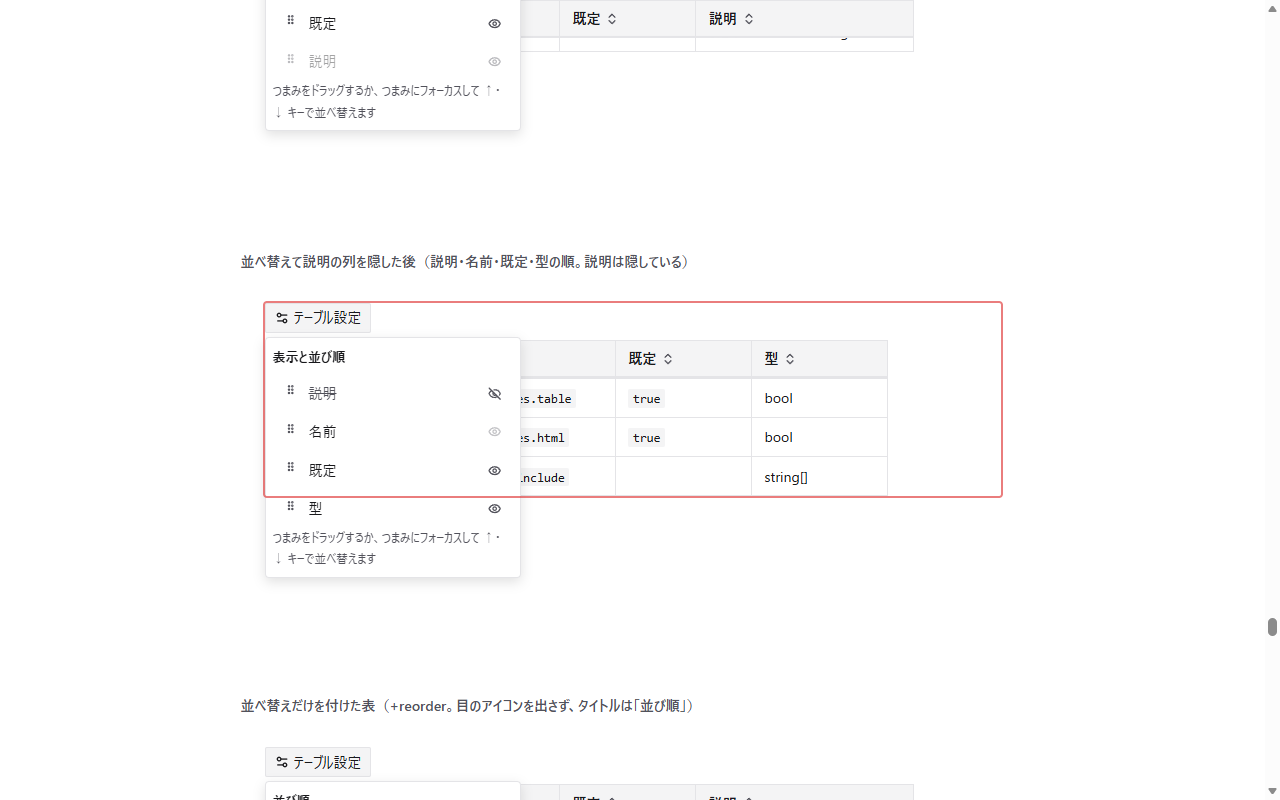
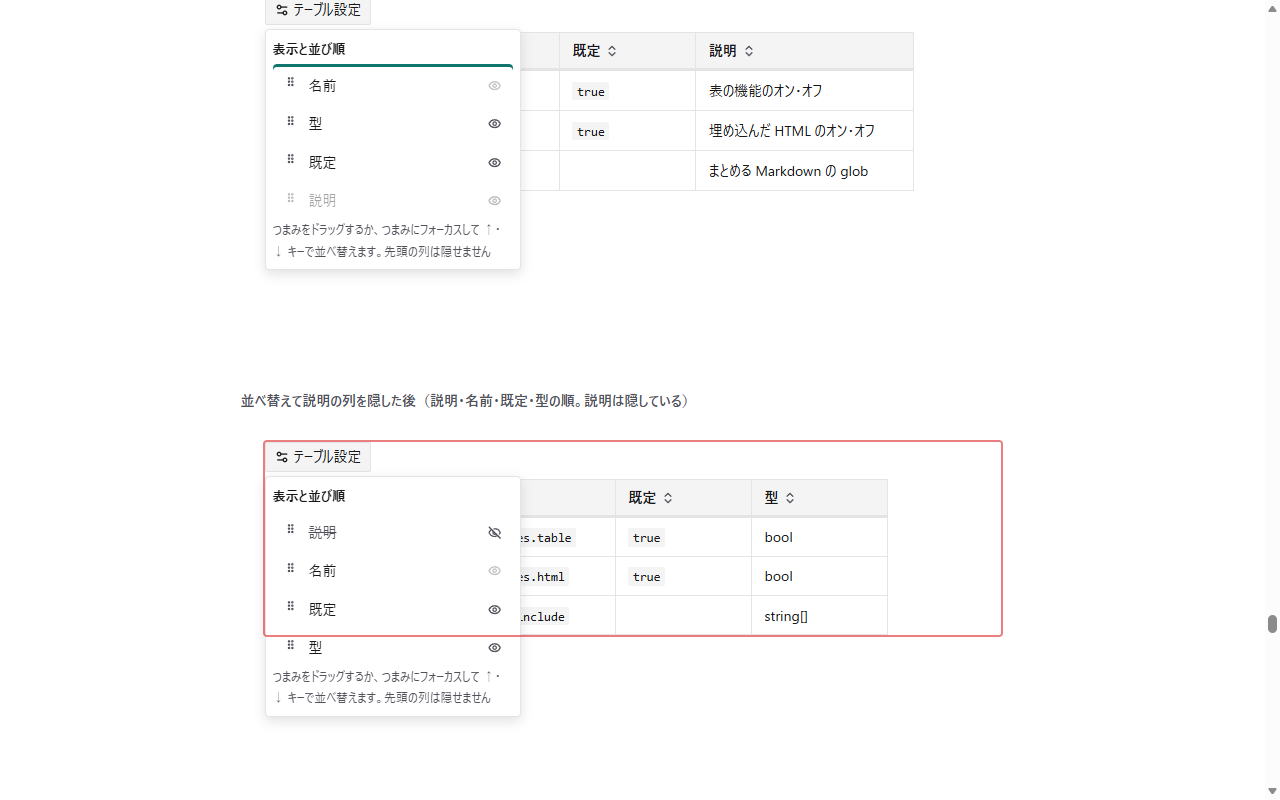
mock: テーブル設定の一覧に先頭の列を隠せない理由を出し、シナリオの先頭の列を記載した順の先頭にする (#303)

diff --git a/dev/mock/components/table/index.html b/dev/mock/components/table/index.html
@@ -1279,7 +1279,7 @@
   <div class="mdmark-table-settings" id="ts-a" role="dialog" aria-label="テーブル設定" hidden>
     <p class="mdmark-table-settings-title">表示と並び順</p>
     <ul class="mdmark-table-settings-list"><li class="mdmark-table-settings-item" data-column="0" data-name="名前"><button class="mdmark-table-settings-grip" type="button" aria-label="「名前」の列を並べ替える" aria-describedby="ts-a-note"><svg class="mdmark-icon" viewBox="0 0 24 24" aria-hidden="true"><circle cx="9" cy="6" r="1"/><circle cx="15" cy="6" r="1"/><circle cx="9" cy="12" r="1"/><circle cx="15" cy="12" r="1"/><circle cx="9" cy="18" r="1"/><circle cx="15" cy="18" r="1"/></svg></button><span class="mdmark-table-settings-name">名前</span><button class="mdmark-table-settings-eye" type="button" aria-pressed="false" aria-label="「名前」を隠す" disabled><svg class="mdmark-icon" viewBox="0 0 24 24" aria-hidden="true"><path d="M2.062 12.348a1 1 0 0 1 0-.696 10.75 10.75 0 0 1 19.876 0 1 1 0 0 1 0 .696 10.75 10.75 0 0 1-19.876 0"/><circle cx="12" cy="12" r="3"/></svg></button></li><li class="mdmark-table-settings-item" data-column="1" data-name="型"><button class="mdmark-table-settings-grip" type="button" aria-label="「型」の列を並べ替える" aria-describedby="ts-a-note"><svg class="mdmark-icon" viewBox="0 0 24 24" aria-hidden="true"><circle cx="9" cy="6" r="1"/><circle cx="15" cy="6" r="1"/><circle cx="9" cy="12" r="1"/><circle cx="15" cy="12" r="1"/><circle cx="9" cy="18" r="1"/><circle cx="15" cy="18" r="1"/></svg></button><span class="mdmark-table-settings-name">型</span><button class="mdmark-table-settings-eye" type="button" aria-pressed="false" aria-label="「型」を隠す"><svg class="mdmark-icon" viewBox="0 0 24 24" aria-hidden="true"><path d="M2.062 12.348a1 1 0 0 1 0-.696 10.75 10.75 0 0 1 19.876 0 1 1 0 0 1 0 .696 10.75 10.75 0 0 1-19.876 0"/><circle cx="12" cy="12" r="3"/></svg></button></li><li class="mdmark-table-settings-item" data-column="2" data-name="既定"><button class="mdmark-table-settings-grip" type="button" aria-label="「既定」の列を並べ替える" aria-describedby="ts-a-note"><svg class="mdmark-icon" viewBox="0 0 24 24" aria-hidden="true"><circle cx="9" cy="6" r="1"/><circle cx="15" cy="6" r="1"/><circle cx="9" cy="12" r="1"/><circle cx="15" cy="12" r="1"/><circle cx="9" cy="18" r="1"/><circle cx="15" cy="18" r="1"/></svg></button><span class="mdmark-table-settings-name">既定</span><button class="mdmark-table-settings-eye" type="button" aria-pressed="false" aria-label="「既定」を隠す"><svg class="mdmark-icon" viewBox="0 0 24 24" aria-hidden="true"><path d="M2.062 12.348a1 1 0 0 1 0-.696 10.75 10.75 0 0 1 19.876 0 1 1 0 0 1 0 .696 10.75 10.75 0 0 1-19.876 0"/><circle cx="12" cy="12" r="3"/></svg></button></li><li class="mdmark-table-settings-item" data-column="3" data-name="説明"><button class="mdmark-table-settings-grip" type="button" aria-label="「説明」の列を並べ替える" aria-describedby="ts-a-note"><svg class="mdmark-icon" viewBox="0 0 24 24" aria-hidden="true"><circle cx="9" cy="6" r="1"/><circle cx="15" cy="6" r="1"/><circle cx="9" cy="12" r="1"/><circle cx="15" cy="12" r="1"/><circle cx="9" cy="18" r="1"/><circle cx="15" cy="18" r="1"/></svg></button><span class="mdmark-table-settings-name">説明</span><button class="mdmark-table-settings-eye" type="button" aria-pressed="false" aria-label="「説明」を隠す"><svg class="mdmark-icon" viewBox="0 0 24 24" aria-hidden="true"><path d="M2.062 12.348a1 1 0 0 1 0-.696 10.75 10.75 0 0 1 19.876 0 1 1 0 0 1 0 .696 10.75 10.75 0 0 1-19.876 0"/><circle cx="12" cy="12" r="3"/></svg></button></li></ul>
-    <p class="mdmark-table-settings-note" id="ts-a-note">つまみをドラッグするか、つまみにフォーカスして ↑・↓ キーで並べ替えます</p>
+    <p class="mdmark-table-settings-note" id="ts-a-note">つまみをドラッグするか、つまみにフォーカスして ↑・↓ キーで並べ替えます。先頭の列は隠せません</p>
   </div>
   </div>
   <table tabindex="0" aria-label="表: テーブル設定を閉じた表">
@@ -1306,7 +1306,7 @@
   <div class="mdmark-table-settings" id="ts-b" role="dialog" aria-label="テーブル設定">
     <p class="mdmark-table-settings-title">表示と並び順</p>
     <ul class="mdmark-table-settings-list"><li class="mdmark-table-settings-item" data-column="0" data-name="名前"><button class="mdmark-table-settings-grip" type="button" aria-label="「名前」の列を並べ替える" aria-describedby="ts-b-note"><svg class="mdmark-icon" viewBox="0 0 24 24" aria-hidden="true"><circle cx="9" cy="6" r="1"/><circle cx="15" cy="6" r="1"/><circle cx="9" cy="12" r="1"/><circle cx="15" cy="12" r="1"/><circle cx="9" cy="18" r="1"/><circle cx="15" cy="18" r="1"/></svg></button><span class="mdmark-table-settings-name">名前</span><button class="mdmark-table-settings-eye" type="button" aria-pressed="false" aria-label="「名前」を隠す" disabled><svg class="mdmark-icon" viewBox="0 0 24 24" aria-hidden="true"><path d="M2.062 12.348a1 1 0 0 1 0-.696 10.75 10.75 0 0 1 19.876 0 1 1 0 0 1 0 .696 10.75 10.75 0 0 1-19.876 0"/><circle cx="12" cy="12" r="3"/></svg></button></li><li class="mdmark-table-settings-item" data-column="1" data-name="型"><button class="mdmark-table-settings-grip" type="button" aria-label="「型」の列を並べ替える" aria-describedby="ts-b-note"><svg class="mdmark-icon" viewBox="0 0 24 24" aria-hidden="true"><circle cx="9" cy="6" r="1"/><circle cx="15" cy="6" r="1"/><circle cx="9" cy="12" r="1"/><circle cx="15" cy="12" r="1"/><circle cx="9" cy="18" r="1"/><circle cx="15" cy="18" r="1"/></svg></button><span class="mdmark-table-settings-name">型</span><button class="mdmark-table-settings-eye" type="button" aria-pressed="false" aria-label="「型」を隠す"><svg class="mdmark-icon" viewBox="0 0 24 24" aria-hidden="true"><path d="M2.062 12.348a1 1 0 0 1 0-.696 10.75 10.75 0 0 1 19.876 0 1 1 0 0 1 0 .696 10.75 10.75 0 0 1-19.876 0"/><circle cx="12" cy="12" r="3"/></svg></button></li><li class="mdmark-table-settings-item" data-column="2" data-name="既定"><button class="mdmark-table-settings-grip" type="button" aria-label="「既定」の列を並べ替える" aria-describedby="ts-b-note"><svg class="mdmark-icon" viewBox="0 0 24 24" aria-hidden="true"><circle cx="9" cy="6" r="1"/><circle cx="15" cy="6" r="1"/><circle cx="9" cy="12" r="1"/><circle cx="15" cy="12" r="1"/><circle cx="9" cy="18" r="1"/><circle cx="15" cy="18" r="1"/></svg></button><span class="mdmark-table-settings-name">既定</span><button class="mdmark-table-settings-eye" type="button" aria-pressed="false" aria-label="「既定」を隠す"><svg class="mdmark-icon" viewBox="0 0 24 24" aria-hidden="true"><path d="M2.062 12.348a1 1 0 0 1 0-.696 10.75 10.75 0 0 1 19.876 0 1 1 0 0 1 0 .696 10.75 10.75 0 0 1-19.876 0"/><circle cx="12" cy="12" r="3"/></svg></button></li><li class="mdmark-table-settings-item" data-column="3" data-name="説明"><button class="mdmark-table-settings-grip" type="button" aria-label="「説明」の列を並べ替える" aria-describedby="ts-b-note"><svg class="mdmark-icon" viewBox="0 0 24 24" aria-hidden="true"><circle cx="9" cy="6" r="1"/><circle cx="15" cy="6" r="1"/><circle cx="9" cy="12" r="1"/><circle cx="15" cy="12" r="1"/><circle cx="9" cy="18" r="1"/><circle cx="15" cy="18" r="1"/></svg></button><span class="mdmark-table-settings-name">説明</span><button class="mdmark-table-settings-eye" type="button" aria-pressed="false" aria-label="「説明」を隠す"><svg class="mdmark-icon" viewBox="0 0 24 24" aria-hidden="true"><path d="M2.062 12.348a1 1 0 0 1 0-.696 10.75 10.75 0 0 1 19.876 0 1 1 0 0 1 0 .696 10.75 10.75 0 0 1-19.876 0"/><circle cx="12" cy="12" r="3"/></svg></button></li></ul>
-    <p class="mdmark-table-settings-note" id="ts-b-note">つまみをドラッグするか、つまみにフォーカスして ↑・↓ キーで並べ替えます</p>
+    <p class="mdmark-table-settings-note" id="ts-b-note">つまみをドラッグするか、つまみにフォーカスして ↑・↓ キーで並べ替えます。先頭の列は隠せません</p>
   </div>
   </div>
   <table tabindex="0" aria-label="表: テーブル設定を開いた表">
@@ -1335,7 +1335,7 @@
   <div class="mdmark-table-settings" id="ts-c" role="dialog" aria-label="テーブル設定">
     <p class="mdmark-table-settings-title">表示と並び順</p>
     <ul class="mdmark-table-settings-list"><li class="mdmark-table-settings-item is-drop-before" data-column="0" data-name="名前"><button class="mdmark-table-settings-grip" type="button" aria-label="「名前」の列を並べ替える" aria-describedby="ts-c-note"><svg class="mdmark-icon" viewBox="0 0 24 24" aria-hidden="true"><circle cx="9" cy="6" r="1"/><circle cx="15" cy="6" r="1"/><circle cx="9" cy="12" r="1"/><circle cx="15" cy="12" r="1"/><circle cx="9" cy="18" r="1"/><circle cx="15" cy="18" r="1"/></svg></button><span class="mdmark-table-settings-name">名前</span><button class="mdmark-table-settings-eye" type="button" aria-pressed="false" aria-label="「名前」を隠す" disabled><svg class="mdmark-icon" viewBox="0 0 24 24" aria-hidden="true"><path d="M2.062 12.348a1 1 0 0 1 0-.696 10.75 10.75 0 0 1 19.876 0 1 1 0 0 1 0 .696 10.75 10.75 0 0 1-19.876 0"/><circle cx="12" cy="12" r="3"/></svg></button></li><li class="mdmark-table-settings-item" data-column="1" data-name="型"><button class="mdmark-table-settings-grip" type="button" aria-label="「型」の列を並べ替える" aria-describedby="ts-c-note"><svg class="mdmark-icon" viewBox="0 0 24 24" aria-hidden="true"><circle cx="9" cy="6" r="1"/><circle cx="15" cy="6" r="1"/><circle cx="9" cy="12" r="1"/><circle cx="15" cy="12" r="1"/><circle cx="9" cy="18" r="1"/><circle cx="15" cy="18" r="1"/></svg></button><span class="mdmark-table-settings-name">型</span><button class="mdmark-table-settings-eye" type="button" aria-pressed="false" aria-label="「型」を隠す"><svg class="mdmark-icon" viewBox="0 0 24 24" aria-hidden="true"><path d="M2.062 12.348a1 1 0 0 1 0-.696 10.75 10.75 0 0 1 19.876 0 1 1 0 0 1 0 .696 10.75 10.75 0 0 1-19.876 0"/><circle cx="12" cy="12" r="3"/></svg></button></li><li class="mdmark-table-settings-item" data-column="2" data-name="既定"><button class="mdmark-table-settings-grip" type="button" aria-label="「既定」の列を並べ替える" aria-describedby="ts-c-note"><svg class="mdmark-icon" viewBox="0 0 24 24" aria-hidden="true"><circle cx="9" cy="6" r="1"/><circle cx="15" cy="6" r="1"/><circle cx="9" cy="12" r="1"/><circle cx="15" cy="12" r="1"/><circle cx="9" cy="18" r="1"/><circle cx="15" cy="18" r="1"/></svg></button><span class="mdmark-table-settings-name">既定</span><button class="mdmark-table-settings-eye" type="button" aria-pressed="false" aria-label="「既定」を隠す"><svg class="mdmark-icon" viewBox="0 0 24 24" aria-hidden="true"><path d="M2.062 12.348a1 1 0 0 1 0-.696 10.75 10.75 0 0 1 19.876 0 1 1 0 0 1 0 .696 10.75 10.75 0 0 1-19.876 0"/><circle cx="12" cy="12" r="3"/></svg></button></li><li class="mdmark-table-settings-item is-dragging" data-column="3" data-name="説明"><button class="mdmark-table-settings-grip" type="button" aria-label="「説明」の列を並べ替える" aria-describedby="ts-c-note"><svg class="mdmark-icon" viewBox="0 0 24 24" aria-hidden="true"><circle cx="9" cy="6" r="1"/><circle cx="15" cy="6" r="1"/><circle cx="9" cy="12" r="1"/><circle cx="15" cy="12" r="1"/><circle cx="9" cy="18" r="1"/><circle cx="15" cy="18" r="1"/></svg></button><span class="mdmark-table-settings-name">説明</span><button class="mdmark-table-settings-eye" type="button" aria-pressed="false" aria-label="「説明」を隠す"><svg class="mdmark-icon" viewBox="0 0 24 24" aria-hidden="true"><path d="M2.062 12.348a1 1 0 0 1 0-.696 10.75 10.75 0 0 1 19.876 0 1 1 0 0 1 0 .696 10.75 10.75 0 0 1-19.876 0"/><circle cx="12" cy="12" r="3"/></svg></button></li></ul>
-    <p class="mdmark-table-settings-note" id="ts-c-note">つまみをドラッグするか、つまみにフォーカスして ↑・↓ キーで並べ替えます</p>
+    <p class="mdmark-table-settings-note" id="ts-c-note">つまみをドラッグするか、つまみにフォーカスして ↑・↓ キーで並べ替えます。先頭の列は隠せません</p>
   </div>
   </div>
   <table tabindex="0" aria-label="表: 列の一覧をドラッグしている表">
@@ -1364,7 +1364,7 @@
   <div class="mdmark-table-settings" id="ts-d" role="dialog" aria-label="テーブル設定">
     <p class="mdmark-table-settings-title">表示と並び順</p>
     <ul class="mdmark-table-settings-list"><li class="mdmark-table-settings-item is-hidden-column" data-column="3" data-name="説明"><button class="mdmark-table-settings-grip" type="button" aria-label="「説明」の列を並べ替える" aria-describedby="ts-d-note"><svg class="mdmark-icon" viewBox="0 0 24 24" aria-hidden="true"><circle cx="9" cy="6" r="1"/><circle cx="15" cy="6" r="1"/><circle cx="9" cy="12" r="1"/><circle cx="15" cy="12" r="1"/><circle cx="9" cy="18" r="1"/><circle cx="15" cy="18" r="1"/></svg></button><span class="mdmark-table-settings-name">説明</span><button class="mdmark-table-settings-eye" type="button" aria-pressed="true" aria-label="「説明」を表示"><svg class="mdmark-icon" viewBox="0 0 24 24" aria-hidden="true"><path d="M10.733 5.076a10.744 10.744 0 0 1 11.205 6.575 1 1 0 0 1 0 .696 10.747 10.747 0 0 1-1.444 2.49"/><path d="M14.084 14.158a3 3 0 0 1-4.242-4.242"/><path d="M17.479 17.499a10.75 10.75 0 0 1-15.417-5.151 1 1 0 0 1 0-.696 10.75 10.75 0 0 1 4.446-5.143"/><path d="m2 2 20 20"/></svg></button></li><li class="mdmark-table-settings-item" data-column="0" data-name="名前"><button class="mdmark-table-settings-grip" type="button" aria-label="「名前」の列を並べ替える" aria-describedby="ts-d-note"><svg class="mdmark-icon" viewBox="0 0 24 24" aria-hidden="true"><circle cx="9" cy="6" r="1"/><circle cx="15" cy="6" r="1"/><circle cx="9" cy="12" r="1"/><circle cx="15" cy="12" r="1"/><circle cx="9" cy="18" r="1"/><circle cx="15" cy="18" r="1"/></svg></button><span class="mdmark-table-settings-name">名前</span><button class="mdmark-table-settings-eye" type="button" aria-pressed="false" aria-label="「名前」を隠す" disabled><svg class="mdmark-icon" viewBox="0 0 24 24" aria-hidden="true"><path d="M2.062 12.348a1 1 0 0 1 0-.696 10.75 10.75 0 0 1 19.876 0 1 1 0 0 1 0 .696 10.75 10.75 0 0 1-19.876 0"/><circle cx="12" cy="12" r="3"/></svg></button></li><li class="mdmark-table-settings-item" data-column="2" data-name="既定"><button class="mdmark-table-settings-grip" type="button" aria-label="「既定」の列を並べ替える" aria-describedby="ts-d-note"><svg class="mdmark-icon" viewBox="0 0 24 24" aria-hidden="true"><circle cx="9" cy="6" r="1"/><circle cx="15" cy="6" r="1"/><circle cx="9" cy="12" r="1"/><circle cx="15" cy="12" r="1"/><circle cx="9" cy="18" r="1"/><circle cx="15" cy="18" r="1"/></svg></button><span class="mdmark-table-settings-name">既定</span><button class="mdmark-table-settings-eye" type="button" aria-pressed="false" aria-label="「既定」を隠す"><svg class="mdmark-icon" viewBox="0 0 24 24" aria-hidden="true"><path d="M2.062 12.348a1 1 0 0 1 0-.696 10.75 10.75 0 0 1 19.876 0 1 1 0 0 1 0 .696 10.75 10.75 0 0 1-19.876 0"/><circle cx="12" cy="12" r="3"/></svg></button></li><li class="mdmark-table-settings-item" data-column="1" data-name="型"><button class="mdmark-table-settings-grip" type="button" aria-label="「型」の列を並べ替える" aria-describedby="ts-d-note"><svg class="mdmark-icon" viewBox="0 0 24 24" aria-hidden="true"><circle cx="9" cy="6" r="1"/><circle cx="15" cy="6" r="1"/><circle cx="9" cy="12" r="1"/><circle cx="15" cy="12" r="1"/><circle cx="9" cy="18" r="1"/><circle cx="15" cy="18" r="1"/></svg></button><span class="mdmark-table-settings-name">型</span><button class="mdmark-table-settings-eye" type="button" aria-pressed="false" aria-label="「型」を隠す"><svg class="mdmark-icon" viewBox="0 0 24 24" aria-hidden="true"><path d="M2.062 12.348a1 1 0 0 1 0-.696 10.75 10.75 0 0 1 19.876 0 1 1 0 0 1 0 .696 10.75 10.75 0 0 1-19.876 0"/><circle cx="12" cy="12" r="3"/></svg></button></li></ul>
-    <p class="mdmark-table-settings-note" id="ts-d-note">つまみをドラッグするか、つまみにフォーカスして ↑・↓ キーで並べ替えます</p>
+    <p class="mdmark-table-settings-note" id="ts-d-note">つまみをドラッグするか、つまみにフォーカスして ↑・↓ キーで並べ替えます。先頭の列は隠せません</p>
   </div>
   </div>
   <table tabindex="0" aria-label="表: 並べ替えた後の表">
@@ -1422,7 +1422,7 @@
   <div class="mdmark-table-settings" id="ts-f" role="dialog" aria-label="テーブル設定">
     <p class="mdmark-table-settings-title">表示と並び順</p>
     <ul class="mdmark-table-settings-list"><li class="mdmark-table-settings-group" aria-hidden="true">ピン止めの列</li><li class="mdmark-table-settings-item" data-column="0" data-name="名前" data-pinned="true"><button class="mdmark-table-settings-grip" type="button" aria-label="「名前」の列を並べ替える" aria-describedby="ts-f-note" disabled><svg class="mdmark-icon" viewBox="0 0 24 24" aria-hidden="true"><circle cx="9" cy="6" r="1"/><circle cx="15" cy="6" r="1"/><circle cx="9" cy="12" r="1"/><circle cx="15" cy="12" r="1"/><circle cx="9" cy="18" r="1"/><circle cx="15" cy="18" r="1"/></svg></button><span class="mdmark-table-settings-name">名前</span><button class="mdmark-table-settings-eye" type="button" aria-pressed="false" aria-label="「名前」を隠す" disabled><svg class="mdmark-icon" viewBox="0 0 24 24" aria-hidden="true"><path d="M2.062 12.348a1 1 0 0 1 0-.696 10.75 10.75 0 0 1 19.876 0 1 1 0 0 1 0 .696 10.75 10.75 0 0 1-19.876 0"/><circle cx="12" cy="12" r="3"/></svg></button></li><li class="mdmark-table-settings-group" aria-hidden="true">設定</li><li class="mdmark-table-settings-item in-group" data-column="1" data-name="型" data-group="設定"><button class="mdmark-table-settings-grip" type="button" aria-label="「型」の列を並べ替える" aria-describedby="ts-f-note"><svg class="mdmark-icon" viewBox="0 0 24 24" aria-hidden="true"><circle cx="9" cy="6" r="1"/><circle cx="15" cy="6" r="1"/><circle cx="9" cy="12" r="1"/><circle cx="15" cy="12" r="1"/><circle cx="9" cy="18" r="1"/><circle cx="15" cy="18" r="1"/></svg></button><span class="mdmark-table-settings-name">型</span><button class="mdmark-table-settings-eye" type="button" aria-pressed="false" aria-label="「型」を隠す"><svg class="mdmark-icon" viewBox="0 0 24 24" aria-hidden="true"><path d="M2.062 12.348a1 1 0 0 1 0-.696 10.75 10.75 0 0 1 19.876 0 1 1 0 0 1 0 .696 10.75 10.75 0 0 1-19.876 0"/><circle cx="12" cy="12" r="3"/></svg></button></li><li class="mdmark-table-settings-item in-group" data-column="2" data-name="既定" data-group="設定"><button class="mdmark-table-settings-grip" type="button" aria-label="「既定」の列を並べ替える" aria-describedby="ts-f-note"><svg class="mdmark-icon" viewBox="0 0 24 24" aria-hidden="true"><circle cx="9" cy="6" r="1"/><circle cx="15" cy="6" r="1"/><circle cx="9" cy="12" r="1"/><circle cx="15" cy="12" r="1"/><circle cx="9" cy="18" r="1"/><circle cx="15" cy="18" r="1"/></svg></button><span class="mdmark-table-settings-name">既定</span><button class="mdmark-table-settings-eye" type="button" aria-pressed="false" aria-label="「既定」を隠す"><svg class="mdmark-icon" viewBox="0 0 24 24" aria-hidden="true"><path d="M2.062 12.348a1 1 0 0 1 0-.696 10.75 10.75 0 0 1 19.876 0 1 1 0 0 1 0 .696 10.75 10.75 0 0 1-19.876 0"/><circle cx="12" cy="12" r="3"/></svg></button></li><li class="mdmark-table-settings-item in-group" data-column="3" data-name="必須" data-group="設定"><button class="mdmark-table-settings-grip" type="button" aria-label="「必須」の列を並べ替える" aria-describedby="ts-f-note"><svg class="mdmark-icon" viewBox="0 0 24 24" aria-hidden="true"><circle cx="9" cy="6" r="1"/><circle cx="15" cy="6" r="1"/><circle cx="9" cy="12" r="1"/><circle cx="15" cy="12" r="1"/><circle cx="9" cy="18" r="1"/><circle cx="15" cy="18" r="1"/></svg></button><span class="mdmark-table-settings-name">必須</span><button class="mdmark-table-settings-eye" type="button" aria-pressed="false" aria-label="「必須」を隠す"><svg class="mdmark-icon" viewBox="0 0 24 24" aria-hidden="true"><path d="M2.062 12.348a1 1 0 0 1 0-.696 10.75 10.75 0 0 1 19.876 0 1 1 0 0 1 0 .696 10.75 10.75 0 0 1-19.876 0"/><circle cx="12" cy="12" r="3"/></svg></button></li><li class="mdmark-table-settings-item" data-column="4" data-name="備考"><button class="mdmark-table-settings-grip" type="button" aria-label="「備考」の列を並べ替える" aria-describedby="ts-f-note" disabled><svg class="mdmark-icon" viewBox="0 0 24 24" aria-hidden="true"><circle cx="9" cy="6" r="1"/><circle cx="15" cy="6" r="1"/><circle cx="9" cy="12" r="1"/><circle cx="15" cy="12" r="1"/><circle cx="9" cy="18" r="1"/><circle cx="15" cy="18" r="1"/></svg></button><span class="mdmark-table-settings-name">備考</span><button class="mdmark-table-settings-eye" type="button" aria-pressed="false" aria-label="「備考」を隠す"><svg class="mdmark-icon" viewBox="0 0 24 24" aria-hidden="true"><path d="M2.062 12.348a1 1 0 0 1 0-.696 10.75 10.75 0 0 1 19.876 0 1 1 0 0 1 0 .696 10.75 10.75 0 0 1-19.876 0"/><circle cx="12" cy="12" r="3"/></svg></button></li></ul>
-    <p class="mdmark-table-settings-note" id="ts-f-note">つまみをドラッグするか、つまみにフォーカスして ↑・↓ キーで並べ替えます</p>
+    <p class="mdmark-table-settings-note" id="ts-f-note">つまみをドラッグするか、つまみにフォーカスして ↑・↓ キーで並べ替えます。先頭の列は隠せません</p>
   </div>
   </div>
   <table tabindex="0" aria-label="表: 結合した見出しとピン止め">

diff --git a/dev/pr/303/要件.md b/dev/pr/303/要件.md
@@ -106,7 +106,7 @@ D-85 の例の書き方のまま、複数の見本の切り替えを既存のタ
 
 | ページ | 更新内容 | 状態 |
 | --- | --- | --- |
-| [docs/リファレンス/記法.md](https://github.com/shuhei1101/mdmark/blob/develop/docs/%E3%83%AA%E3%83%95%E3%82%A1%E3%83%AC%E3%83%B3%E3%82%B9/%E8%A8%98%E6%B3%95.md) | 表の機能の列の並べ替え・表のマーカーの引数 `tree=`・`example=`・`<!-- html -->` の範囲に置ける `css`・`ts`・`js` を追加する（使い方集 `notation`） | 未 |
+| [docs/リファレンス/記法.md](https://github.com/shuhei1101/mdmark/blob/develop/docs/%E3%83%AA%E3%83%95%E3%82%A1%E3%83%AC%E3%83%B3%E3%82%B9/%E8%A8%98%E6%B3%95.md) | 表の機能の列の並べ替え・表のマーカーの引数 `tree=`・`example=`・`<!-- html -->` の範囲に置ける `css`・`ts`・`js` を追加する。`hide=` の「先頭の列は隠せない」の先頭の列が、Markdown に記載した順の先頭であることを明記する（使い方集 `notation`） | 未 |
 | [docs/使い方/書く/表に機能を付ける.md](https://github.com/shuhei1101/mdmark/blob/develop/docs/%E4%BD%BF%E3%81%84%E6%96%B9/%E6%9B%B8%E3%81%8F/%E8%A1%A8%E3%81%AB%E6%A9%9F%E8%83%BD%E3%82%92%E4%BB%98%E3%81%91%E3%82%8B.md) | 列の並べ替えと、キーの列の階層・YAML の見本との連動の書き方を追加する（使い方集 `tables`） | 未 |
 | [docs/使い方/図を描く/コードブロックのHTMLを描く.md](https://github.com/shuhei1101/mdmark/blob/develop/docs/%E4%BD%BF%E3%81%84%E6%96%B9/%E5%9B%B3%E3%82%92%E6%8F%8F%E3%81%8F/%E3%82%B3%E3%83%BC%E3%83%89%E3%83%96%E3%83%AD%E3%83%83%E3%82%AF%E3%81%AEHTML%E3%82%92%E6%8F%8F%E3%81%8F.md) | 範囲の `css`・`ts`・`js` の書き方と、機能をオンにする手順を追加する（使い方集 `html-blocks`） | 未 |
 | [docs/リファレンス/HTMLの書き方.md](https://github.com/shuhei1101/mdmark/blob/develop/docs/%E3%83%AA%E3%83%95%E3%82%A1%E3%83%AC%E3%83%B3%E3%82%B9/HTML%E3%81%AE%E6%9B%B8%E3%81%8D%E6%96%B9.md) | 範囲の `ts`・`js` と `css` で動きと見た目を追加するときの決まりを追加する（使い方集 `html-rules`） | 未 |
